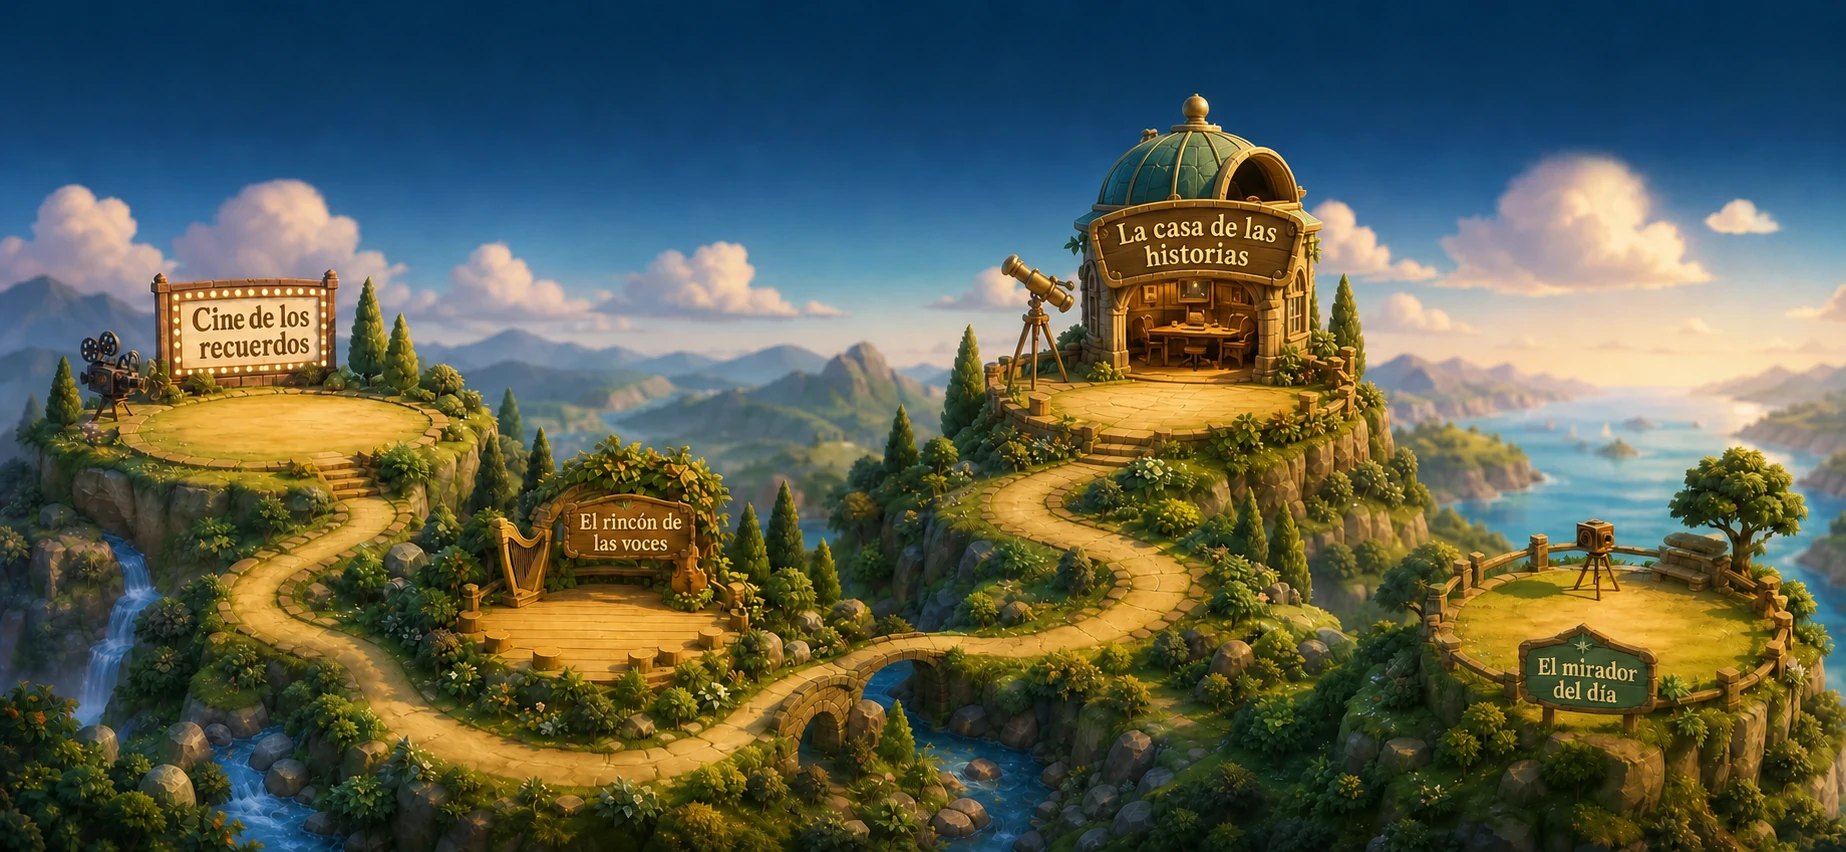
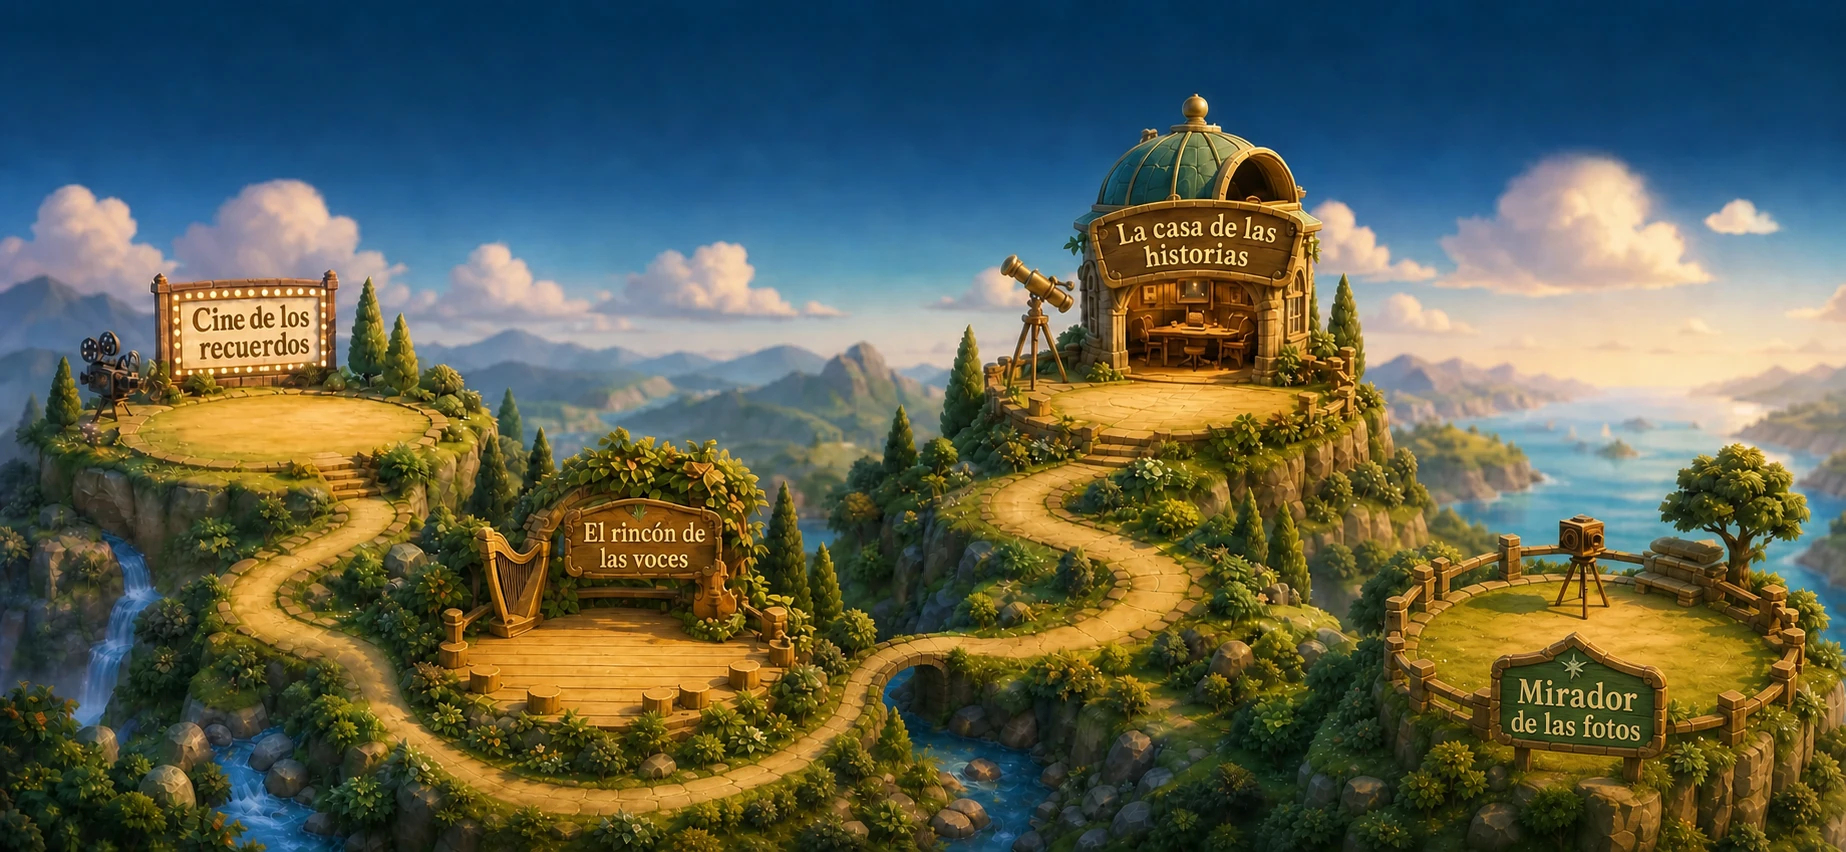
refine: enlarge voice and photo landmarks

diff --git a/src/features/home/HomePage.tsx b/src/features/home/HomePage.tsx
@@ -15,7 +15,7 @@ const worlds = [
   { id: "video", to: "/record/video", title: "Cine de los recuerdos", action: "Vídeo", className: "adventure-world--video" },
   { id: "voice", to: "/record/audio", title: "El rincón de las voces", action: "Voz", className: "adventure-world--voice" },
   { id: "write", to: "/record/text", title: "La casa de las historias", action: "Escribir", className: "adventure-world--write" },
-  { id: "photo", to: "/daily-photo", title: "El mirador del día", action: "Foto", className: "adventure-world--photo" },
+  { id: "photo", to: "/daily-photo", title: "Mirador de las fotos", action: "Foto", className: "adventure-world--photo" },
 ];
 
 type InstallPromptEvent = Event & {
